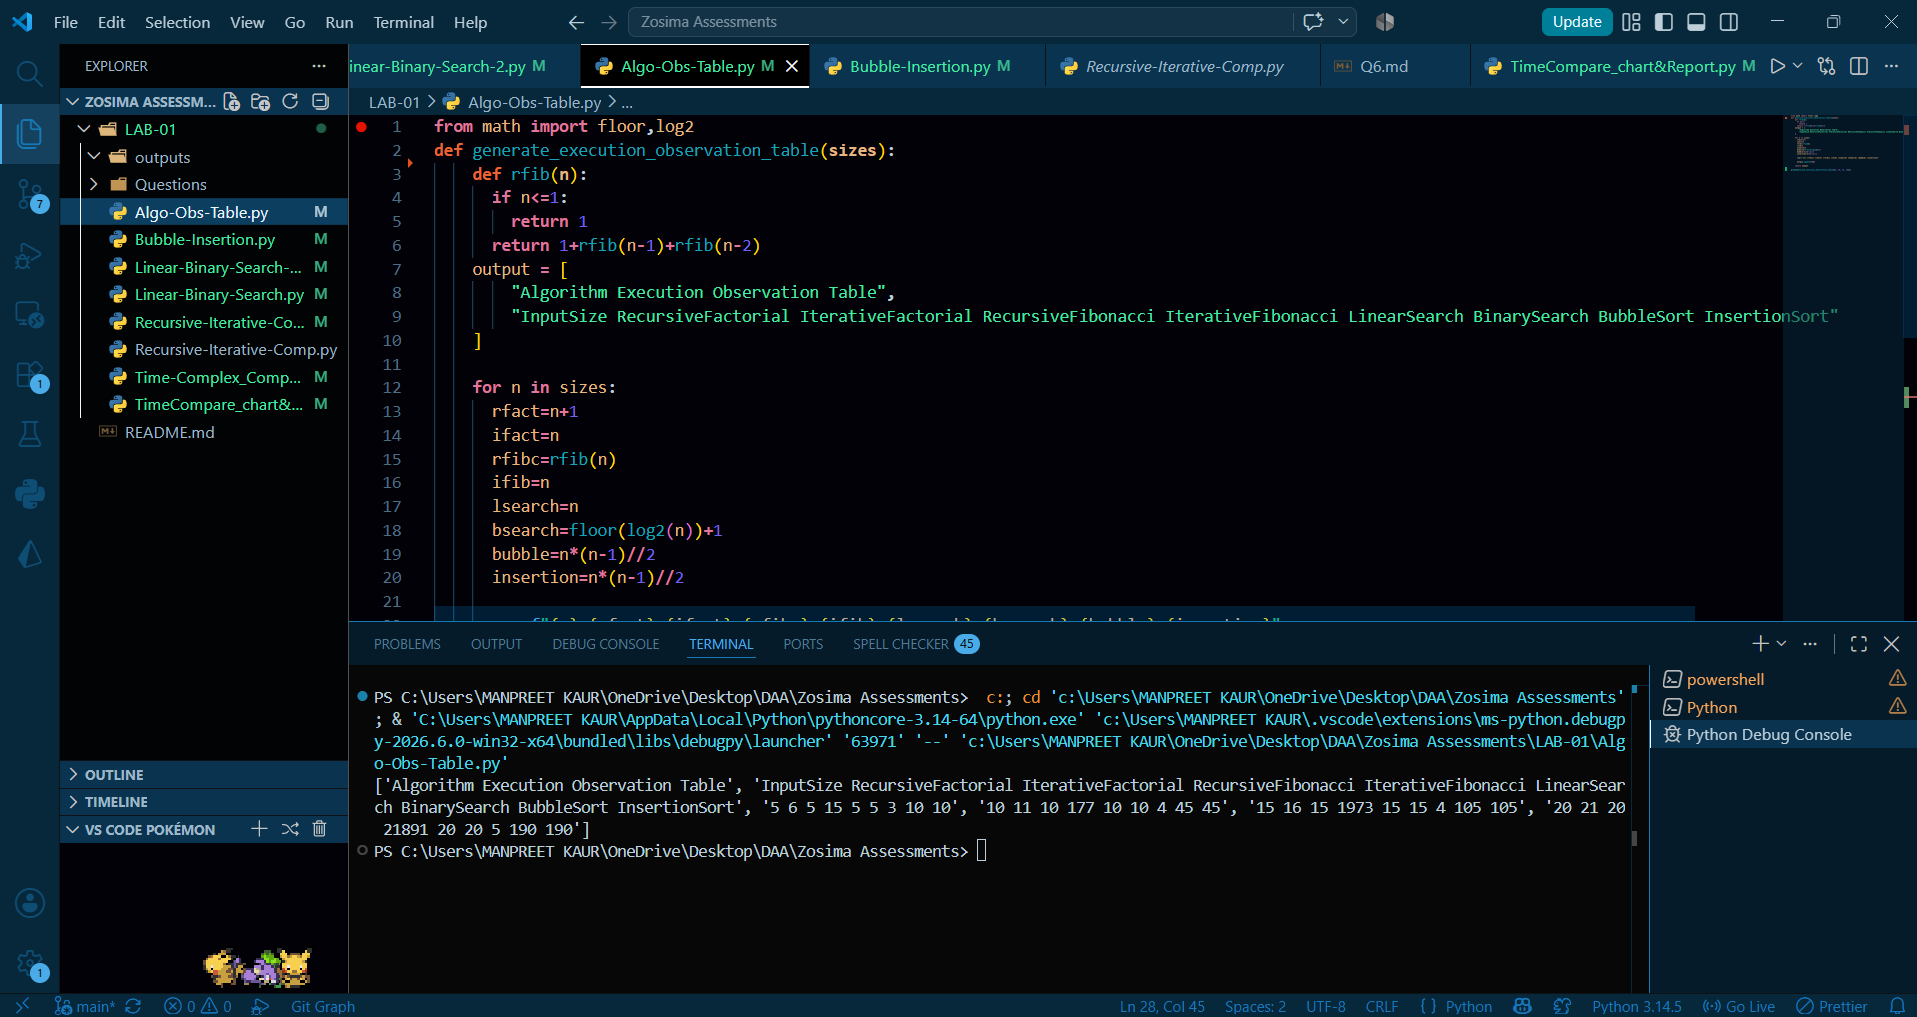
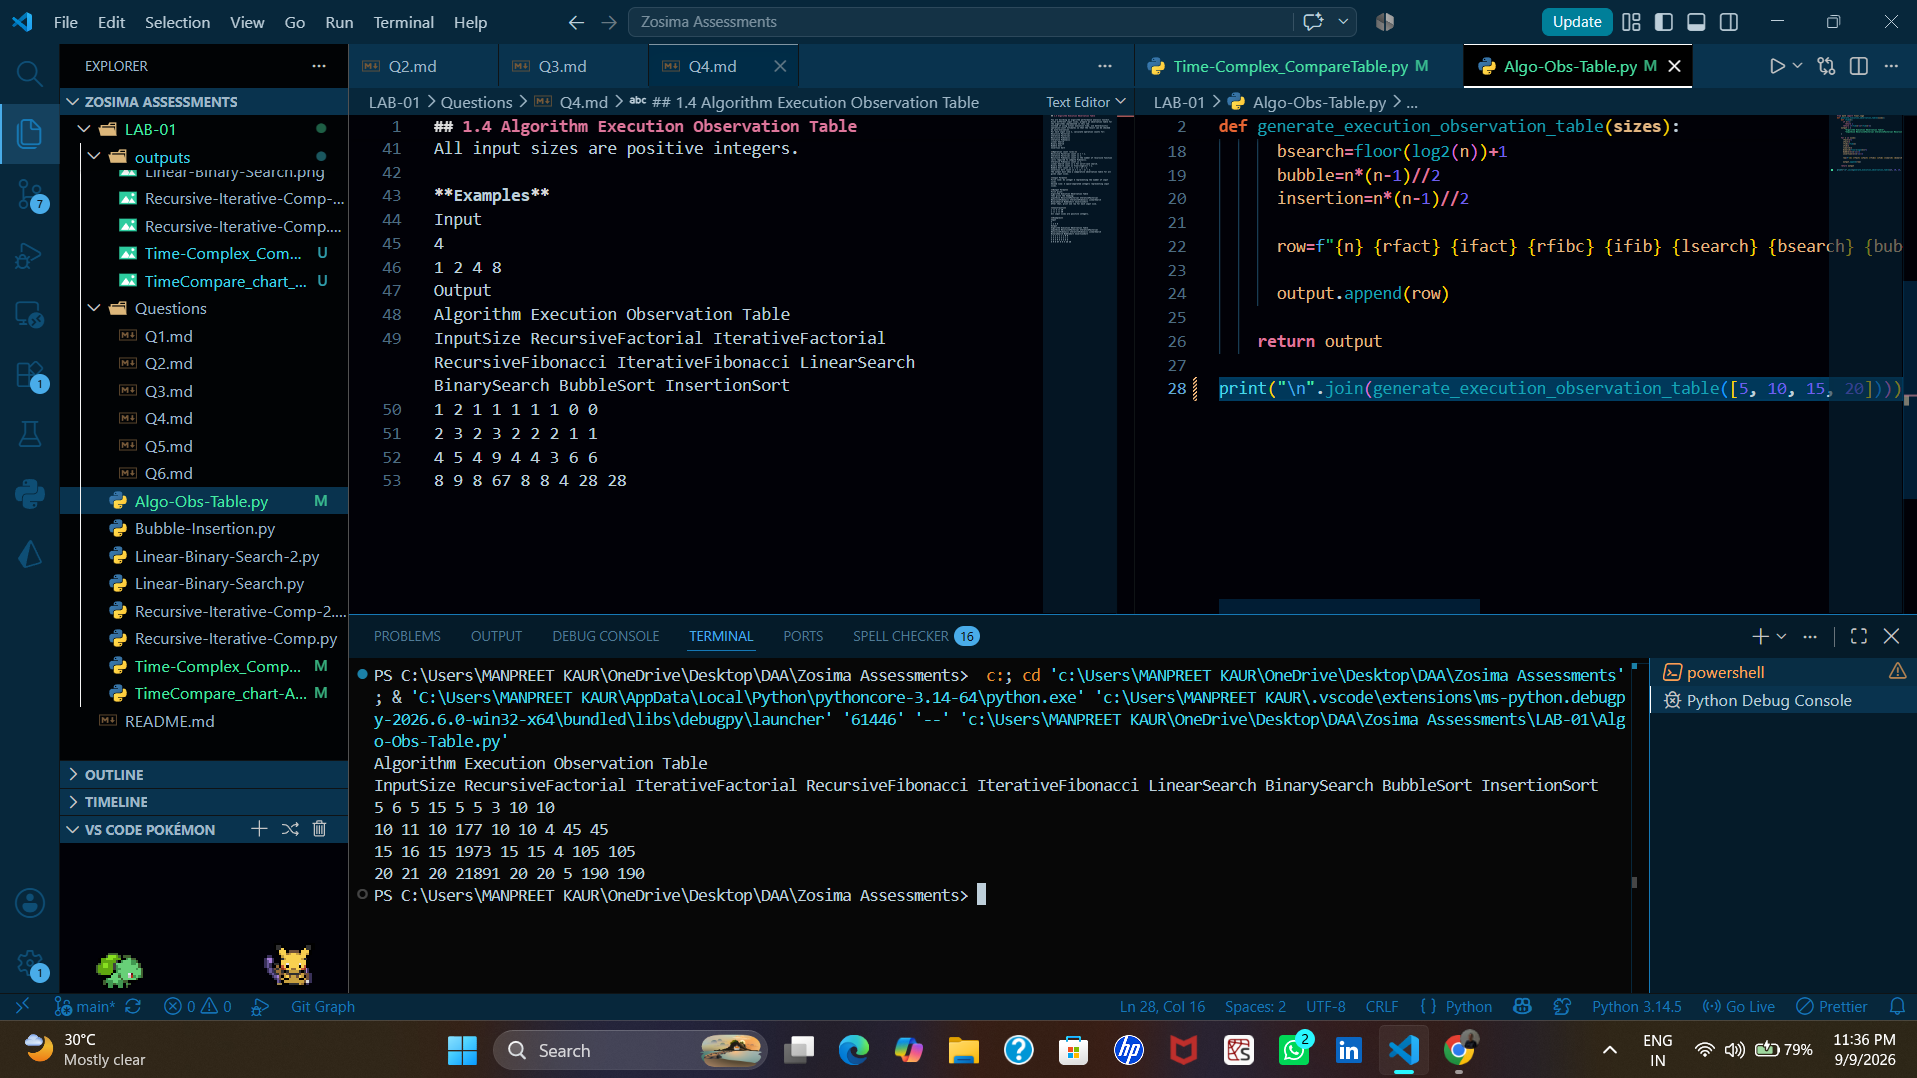
Added all the minor modifications in the codes

Changed region(s): [[0.0, 0.0, 1.0, 0.8535], [0.0, 0.884, 1.0, 1.0]]

diff --git a/LAB-01/Algo-Obs-Table.py b/LAB-01/Algo-Obs-Table.py
@@ -25,4 +25,4 @@ def generate_execution_observation_table(sizes):
       
     return output
 
-print(generate_execution_observation_table([5, 10, 15, 20]))
+print("\n".join(generate_execution_observation_table([5, 10, 15, 20])))

diff --git a/LAB-01/TimeCompare_chart-And-Report.py b/LAB-01/TimeCompare_chart-And-Report.py
@@ -29,4 +29,4 @@ def generate_runtime_chart_report(sizes):
   
     return output+output_summary
 
-print(generate_runtime_chart_report([10, 20, 50, 100]))
+print("\n".join(generate_runtime_chart_report([10, 20, 50, 100])))

diff --git a/LAB-01/Time-Complex_CompareTable.py b/LAB-01/Time-Complex_CompareTable.py
@@ -11,4 +11,4 @@ def generate_runtime_complexity_table(n):
     ]
     return output
 
-print(generate_runtime_complexity_table(100))
+print("\n".join(generate_runtime_complexity_table(100)))
